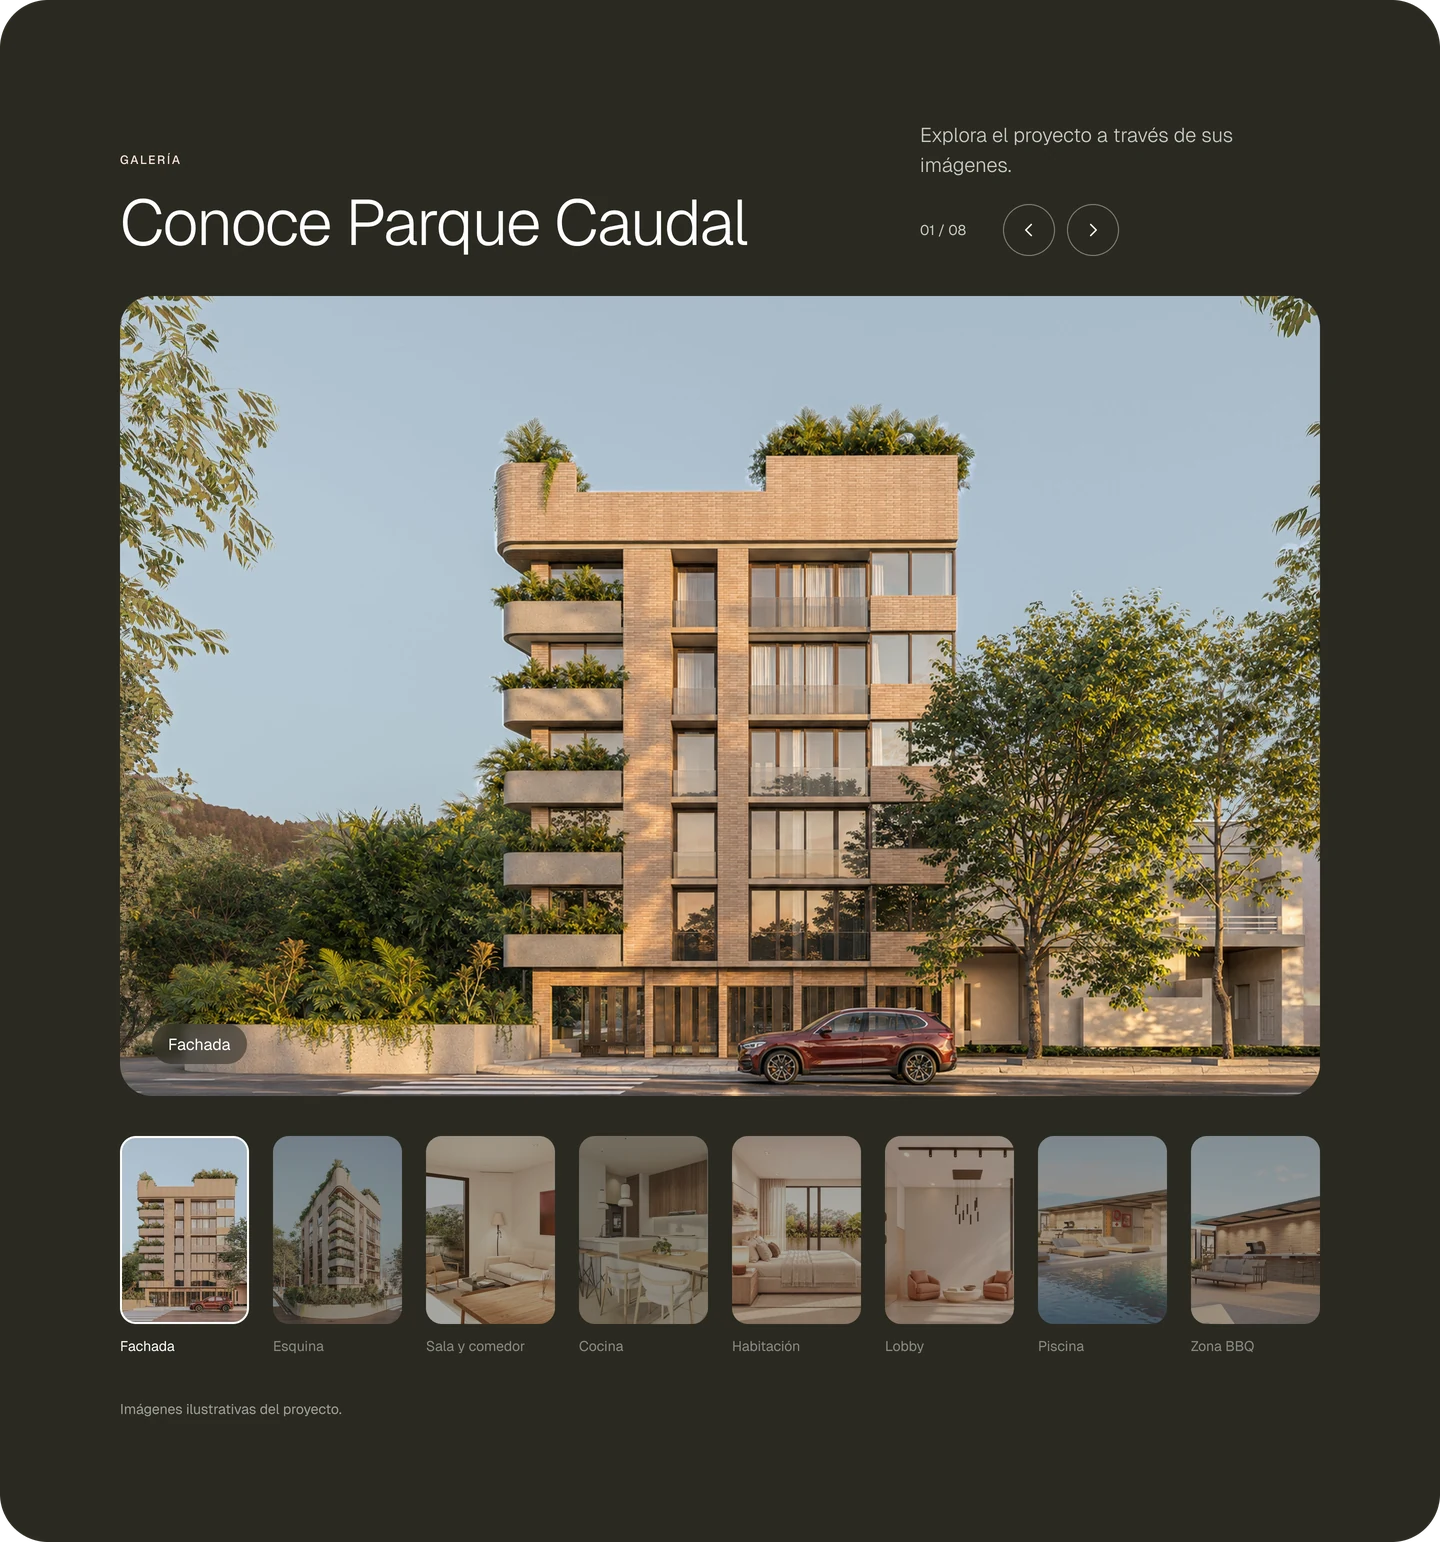
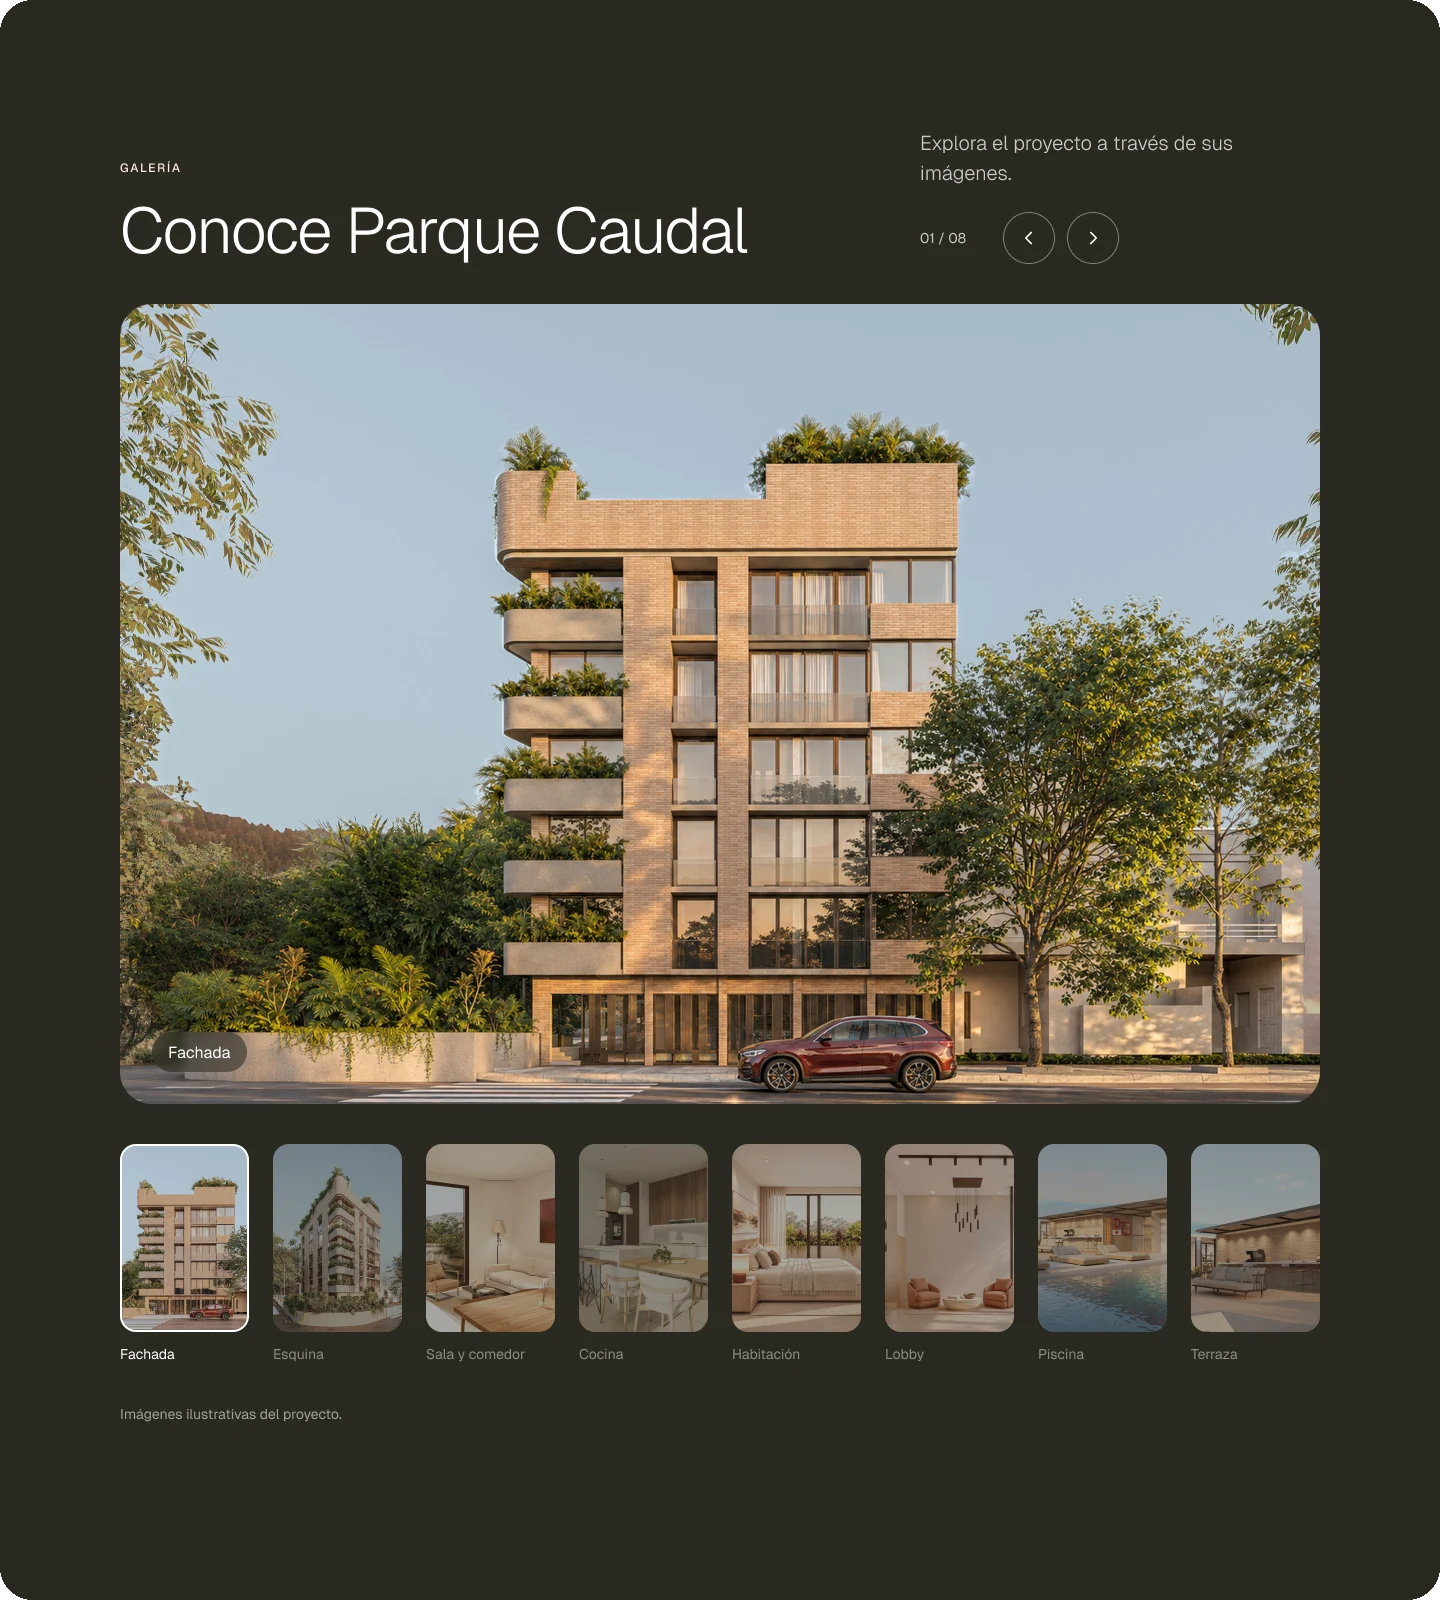
Parque Caudal: final approved assets, contact and typologies, rewritten story
Claude-Session: https://claude.ai/code/session_01RgRrJV2TRqyo6x4XKgkFL2

diff --git a/app/content/projects.ts b/app/content/projects.ts
@@ -127,9 +127,21 @@ const CB_NOTE =
   "Coverbase is an AI procurement and vendor-risk platform from San Francisco. I joined as its first designer in November 2024, part-time at first and full-time from February 2026, and I own product design end to end.";
 const PC_PROJECT = img(
   "parque-caudal-project.webp",
-  "El proyecto section: Un proyecto pensado a otra escala, with the figures 15 apartments, 5 floors and 3 typologies beside a render of planted terraces",
+  "El proyecto section: Un proyecto pensado a otra escala, with 15 apartments, 5 floors and 3 typologies, common areas as tags and a corner render of the building",
   1440,
-  900,
+  1024,
+);
+const PC_TYPES = img(
+  "parque-caudal-types.webp",
+  "Tipologías section: Encuentra tu espacio, three apartment cards with floor plan, area, terrace, parking and a WhatsApp button",
+  1440,
+  1170,
+);
+const PC_CONTACT = img(
+  "parque-caudal-contact.webp",
+  "Contact section: WhatsApp button first, email link second and a callback form third, with the sales team's daily hours",
+  1440,
+  924,
 );
 const PC_GALLERY = img(
   "parque-caudal-gallery-full.webp",
@@ -202,7 +214,7 @@ export const projects: Project[] = [
     year: 2026,
     employer: { label: "Freelance" },
     client: "Parque Caudal",
-    description: "A pre-launch landing page for a 15-apartment building in Villavicencio, Colombia.",
+    description: "A brand and pre-launch landing page for a 15-apartment building in Villavicencio, Colombia.",
     teaser: "WhatsApp first: a one-page launch that lets buyers start the conversation",
     image: PC_GALLERY,
     coverVideo: { src: PC_VIDEO.src, poster: PC_VIDEO.poster, width: PC_VIDEO.width, height: PC_VIDEO.height },
@@ -210,29 +222,29 @@ export const projects: Project[] = [
       { type: "trio", left: PC_GALLERY, video: PC_VIDEO, right: PC_SYSTEM },
       {
         type: "p",
-        text: "Parque Caudal is a five-floor residential building with 15 apartments in three typologies, in Villavicencio, Colombia. The client needed a simple, credible one-page site to launch it and test early interest before investing in more sales tooling. I directed the design in November 2026, with Claude as an AI collaborator connected to Figma. The project is in its design phase and has not launched yet.",
+        text: "Parque Caudal is a five-floor building with 15 apartments in three typologies, in Villavicencio, Colombia. The developer needed a simple, credible one-page site to launch it and test early interest before investing in more sales tooling. I designed the logo and the website, and I’m also building it for launch. The final design is approved.",
       },
       { type: "h", text: "Answering a buyer’s questions in order" },
       {
         type: "p",
-        text: "The page follows the questions a buyer asks: what it is, what the apartments are like, where it is and how to get more information. Location and size surface early, and nothing useful sits behind a form. The client supplied one exterior render and a floor plan, so every image is a crop of that render, and every fact the client has not confirmed carries a visible pending tag instead of invented copy.",
+        text: "The page follows the questions a buyer asks: what it is, what the apartments are like, where it is and how to get in touch. Size, the three typologies and the common areas show up early, and nothing useful sits behind a form. I also improved the quality of the renders and floor plans the client shared, so they hold up at full size.",
       },
-      { type: "images", items: [PC_PROJECT] },
-      { type: "h", text: "WhatsApp first, the form second" },
+      { type: "h", text: "WhatsApp first, then email, then the form" },
       {
         type: "p",
-        text: "I made WhatsApp the primary action across the page, in the hero, on each apartment card, after the FAQs and in the contact section, with the lead form as a second, passive option. People prefer to send a message and stay in control rather than wait for a callback. The FAQs come from a quick benchmark of what Colombian buyers ask about off-plan purchases: delivery date, how their money is protected, payment plans, financing, parking and visiting a sales room.",
+        text: "The client asked for a form, plus a WhatsApp button for people who might prefer it. I flipped the order: WhatsApp is the primary action across the page, email comes second and the form third. People don’t want to wait for a callback, and WhatsApp is how most people in Colombia already talk to businesses. I also suggested showing the sales team’s working hours right in the contact section, so people know when to expect an answer.",
       },
-      { type: "h", text: "A visual system taken from the hero" },
+      { type: "images", items: [PC_PROJECT, PC_TYPES, PC_CONTACT] },
+      { type: "h", text: "A brand built from a single render" },
       {
         type: "p",
-        text: "I designed the hero and the first section, and the rest of the system was derived from them: earth, sand, sky and leaf color primitives, dark and light theme modes that alternate by section, and a Geist type scale for mobile and desktop. I also had the PARQUE wordmark vectorized letter by letter from a raster source, with equal stems and optical kerning.",
+        text: "We started with a render of the building and nothing else: no logo, no colors, no type. So I built the visual system around the architecture: the PARQUE caudal logo, a palette taken from the brick, the sky and the foliage, dark and light sections that alternate down the page, and a Geist type scale. Nature is what sets this project apart, and every apartment faces outward with its own terrace and view, so I made it part of the brand, from the foliage framing the hero to the flowing lines behind each section.",
       },
       { type: "images", items: [PC_PALETTE, PC_TYPE] },
-      { type: "h", text: "Motion from the design layers" },
+      { type: "h", text: "Bringing a flat render to life" },
       {
         type: "p",
-        text: "The hero is built as layers: sky, building, foliage and interface. That made a parallax intro possible straight from the Figma layers, rendered frame by frame. My one rule was that no hard edge could ever show, so every frame was checked along the seams. The clip at the top runs the intro and a scroll into the project section on mobile.",
+        text: "A render is a flat image. I split it into layers (sky, building, foliage and interface) and animated them strategically, with a slow push-in and parallax at different depths, so the hero feels alive instead of static. The clip at the top shows the intro and the scroll into the project section on mobile.",
       },
     ],
   },
